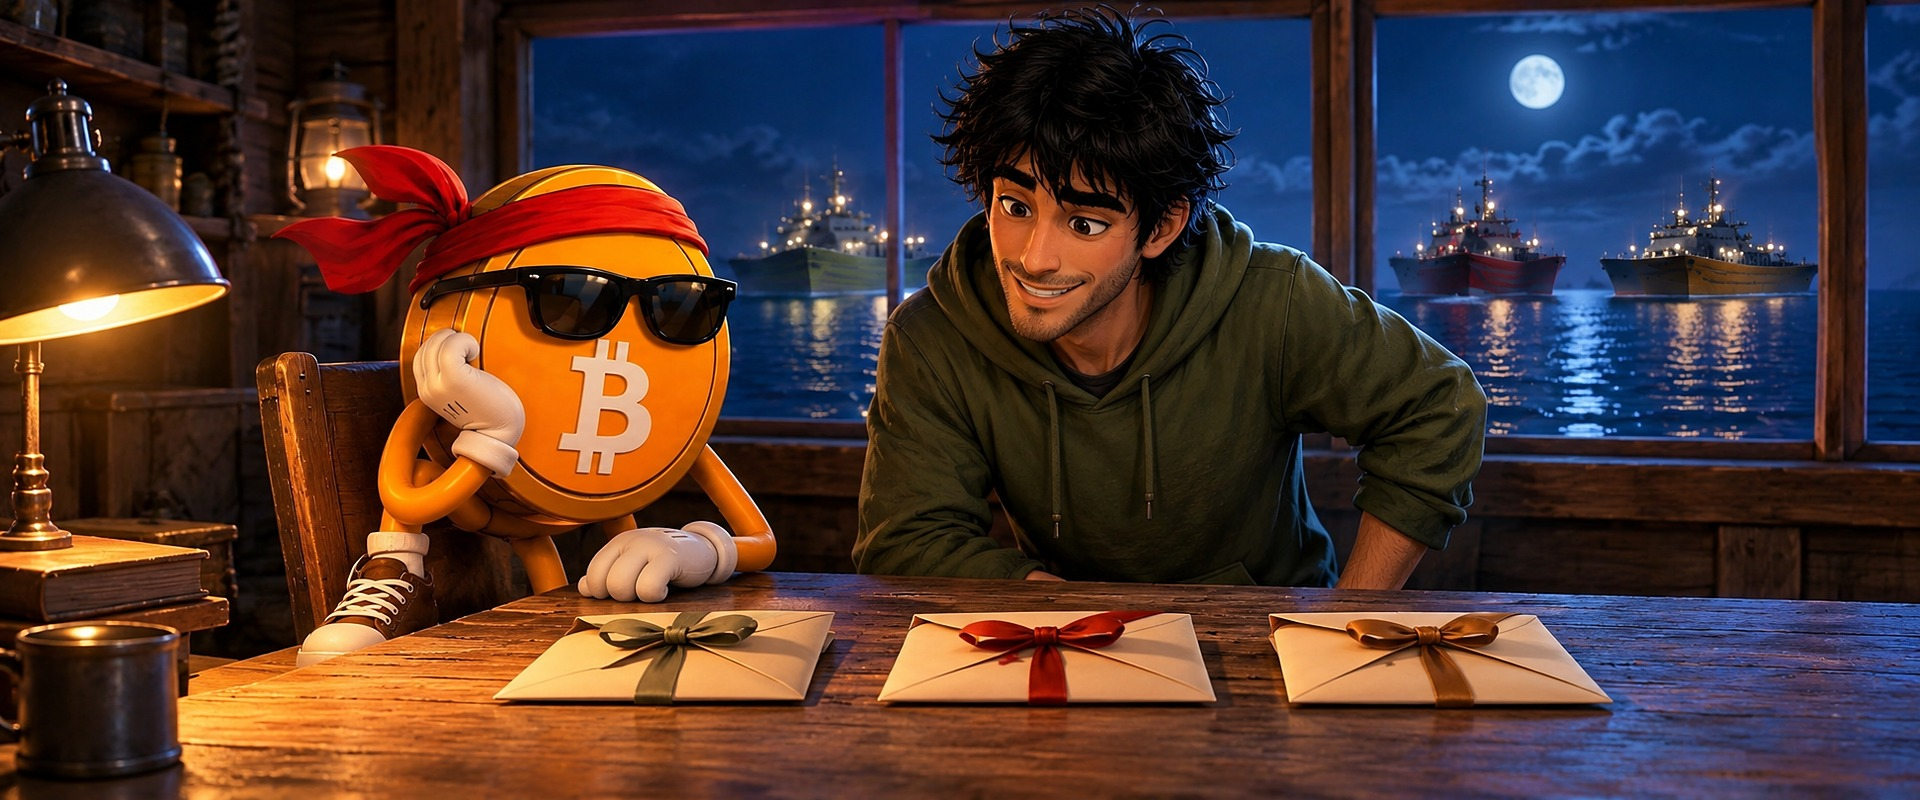
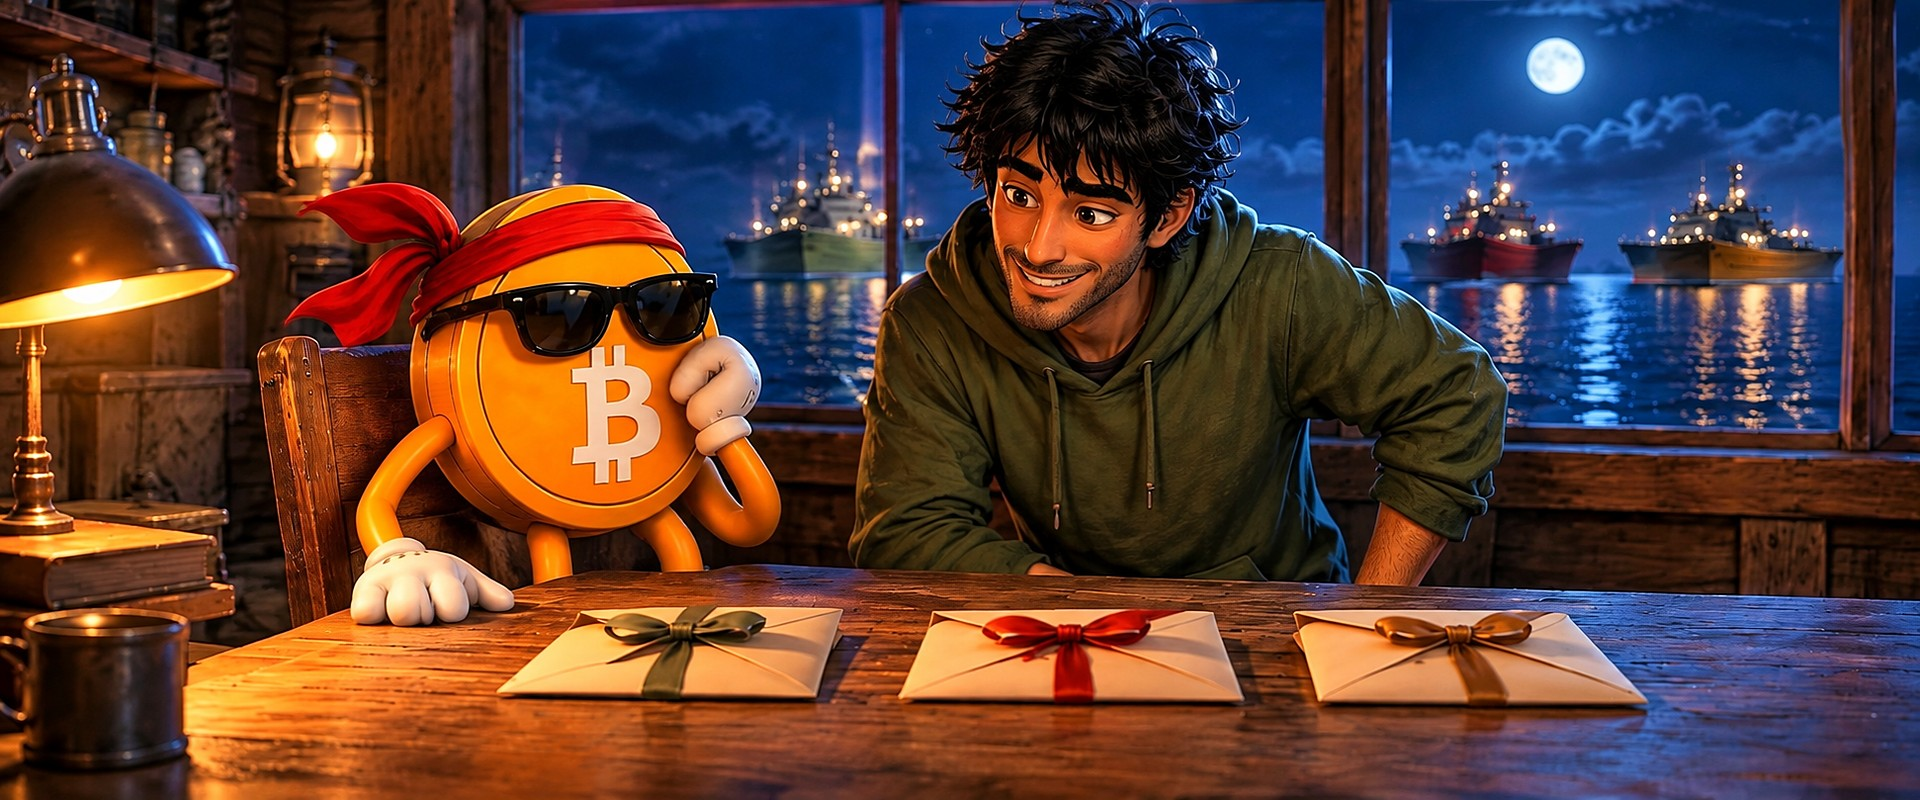
Art: ChatGPT redraws for usedcar-lemon, blocReplies, battle-pact-win (mp258)

diff --git a/game.js b/game.js
@@ -3344,7 +3344,7 @@
   };
 
   // Per-card cache bust for redrawn wide art, so one new image does not re-download every card.
-  const WIDE_JPG_VER = { unclemike: "cin15", islandInspection: "cin20", citadelProblem: "cin18", somethingBetter: "cin18", theQuestion: "cin18", fourthColor: "cin18", nicoWedding: "cin19", battleWon: "cin19", blocAssault: "cin19", blocReplies: "cin20", blocTriumph: "cin20", notYet: "cin20", nobodyKnows: "cin21", nothingToHide: "cin21", temporaryMeasures: "cin21", theAnswer: "cin21", timeTraveler: "cin22", stateVisit: "cin36", anOffer: "cin24", protectIsland: "cin25", baby: "cin26", extensionCord: "cin27", landfill: "cin27", poker: "cin27", usedcar: "cin36", wedding: "cin28", citadelQuestion: "cin29", honeymoon: "cin36", phish: "cin29", firstBloc: "cin30", principality: "cin30", threeColors: "cin30", rearmament: "cin31", justInCase: "cin31", ortegaCalls: "cin31", pieceWorld: "cin31", tetris: "cin36", cabinet: "cin31", courage: "cin31", declaration: "cin31", date: "cin32", flu: "cin32", peopleAsking: "cin32", placeNow: "cin32", pregnancy: "cin32", ring: "cin32", roof: "cin32", paperwork: "cin33", potluck: "cin33", tow: "cin33", wine: "cin33", speeding: "cin34", uncle: "cin34", wallet: "cin34", casino: "cin35", cousin: "cin35", crash: "cin36", jobCareeraviationTier6: "cin36" };
+  const WIDE_JPG_VER = { unclemike: "cin15", islandInspection: "cin20", citadelProblem: "cin18", somethingBetter: "cin18", theQuestion: "cin18", fourthColor: "cin18", nicoWedding: "cin19", battleWon: "cin19", blocAssault: "cin19", blocReplies: "cin37", blocTriumph: "cin20", notYet: "cin20", nobodyKnows: "cin21", nothingToHide: "cin21", temporaryMeasures: "cin21", theAnswer: "cin21", timeTraveler: "cin22", stateVisit: "cin36", anOffer: "cin24", protectIsland: "cin25", baby: "cin26", extensionCord: "cin27", landfill: "cin27", poker: "cin27", usedcar: "cin36", wedding: "cin28", citadelQuestion: "cin29", honeymoon: "cin36", phish: "cin29", firstBloc: "cin30", principality: "cin30", threeColors: "cin30", rearmament: "cin31", justInCase: "cin31", ortegaCalls: "cin31", pieceWorld: "cin31", tetris: "cin36", cabinet: "cin31", courage: "cin31", declaration: "cin31", date: "cin32", flu: "cin32", peopleAsking: "cin32", placeNow: "cin32", pregnancy: "cin32", ring: "cin32", roof: "cin32", paperwork: "cin33", potluck: "cin33", tow: "cin33", wine: "cin33", speeding: "cin34", uncle: "cin34", wallet: "cin34", casino: "cin35", cousin: "cin35", crash: "cin36", jobCareeraviationTier6: "cin36" };
   const SQ_JPG_VER = { unclemike: "sq2" };
   const PRELOADED_ART = new Map();
   const MOBILE_ART = (() => { try { return matchMedia("(pointer: coarse)").matches || Math.min(screen.width, screen.height) < 820; } catch (e) { return false; } })();
@@ -3500,7 +3500,7 @@
     "unclemike-a":"post8", "unclemike-b":"post10", "unclemike-c":"post10", "casino-win":"post9",
     "casino-lose":"post9", "casino-c":"post9", "poker-win":"post8", "poker-bust":"post7",
     "poker-c":"post7", "startup-win":"post7", "startup-lose":"post7", "cousin-win":"post9",
-    "cousin-lose":"post7", "usedcar-works":"post8", "usedcar-lemon":"post8", "stateVisit-a":"post8",
+    "cousin-lose":"post7", "usedcar-works":"post8", "usedcar-lemon":"post10", "stateVisit-a":"post8",
     "stateVisit-b":"post8", "extensionCord-a":"post7", "extensionCord-b":"post7", "landfill-nokia":"post7",
     "landfill-nothing":"post7", "landfill-c":"post8", "baby-a":"post7", "baby-c":"post7",
     "nicoWedding-a":"post7", "nicoWedding-c":"post7"
@@ -3571,7 +3571,7 @@
     const va = battleArtPick(card);
     if (va && base.indexOf("<img") === 0) {
       const m0 = base.match(/ src="([^"]*)"/);
-      if (m0) return base.replace(/ onerror="[^"]*"/, "").replace(m0[0], " src=\"chance/" + va + "-wide.jpg?v=bat15\" data-base=\"" + m0[1] + "\"")
+      if (m0) return base.replace(/ onerror="[^"]*"/, "").replace(m0[0], " src=\"chance/" + va + "-wide.jpg?v=bat16\" data-base=\"" + m0[1] + "\"")
         .replace("<img ", "<img onerror=\"window.__choppyBattleMiss&&window.__choppyBattleMiss('" + va + "');window.__choppyArtMiss&&window.__choppyArtMiss(this)\" ");
     }
     const aid = blocArtId(card);
@@ -11914,7 +11914,7 @@
     hvLoad = 1;
     try {
       const s = document.createElement("script");
-      s.src = "halving.js?v=mp257";
+      s.src = "halving.js?v=mp258";
       s.onload = function () {
         hvLoad = 0;
         try {
@@ -13074,12 +13074,12 @@
     return "<div class=\"awards\"><details class=\"aw-all\"><summary class=\"k\">" + (es ? "Premios" : "Awards") + " (" + n + "/" + shown.length + ")</summary>" + note + groups + "</details></div>";
   }
   function shareCardSrc() {
-    return "share-card.js?v=mp257";
+    return "share-card.js?v=mp258";
   }
   function copyResultSrc() {
-    return "copy-result.js?v=mp257";
+    return "copy-result.js?v=mp258";
   }
-  function dailyScriptSrc() { return "daily.js?v=mp257"; }
+  function dailyScriptSrc() { return "daily.js?v=mp258"; }
   function loadDaily(cb) {
     if (typeof choppyDailyReady === "function") { cb(); return; }
     if (!window.__choppyDailyLoad) window.__choppyDailyLoad = [];
@@ -13137,7 +13137,7 @@
   const GHOST_DT = 0.2;
   const GHOST_CAP = 12000;
   let ghostRun = null;
-  function ghostScriptSrc() { return "ghost.js?v=mp257"; }
+  function ghostScriptSrc() { return "ghost.js?v=mp258"; }
   function ghostLive() {
     return !!(S.ranked && S.daily && !S.mp && !S.testCheat && S.humanInput !== false && S.dailyDay === utcDayKey());
   }
@@ -14344,7 +14344,7 @@
     if (mpScript) return mpScript;
     mpScript = new Promise((resolve) => {
       const s = document.createElement("script");
-      s.src = "mp.js?v=mp257";
+      s.src = "mp.js?v=mp258";
       s.onload = () => {
         try { wireMp(); } catch (e) {}
         resolve(window.ChoppyMP || null);

diff --git a/index.html b/index.html
@@ -64,8 +64,8 @@
   </style>
   <script>(function(){function m(){var d={};return{getItem:function(k){return Object.prototype.hasOwnProperty.call(d,k)?d[k]:null},setItem:function(k,v){d[k]=String(v)},removeItem:function(k){delete d[k]},clear:function(){d={}},key:function(i){return Object.keys(d)[i]||null},get length(){return Object.keys(d).length}}}["localStorage","sessionStorage"].forEach(function(n){try{var s=window[n];s.setItem("choppy-ls-probe","1");s.removeItem("choppy-ls-probe")}catch(e){try{Object.defineProperty(window,n,{value:m(),configurable:true})}catch(e2){}}});if(/[?&]embed=1(&|$)/.test(location.search)){window.choppyEmbed=true;document.documentElement.className+=" embed"}})();</script>
   <script>try{var _s=JSON.parse(localStorage.getItem("bitcoinizate-sb")||"null");if(_s&&_s.access_token){window.choppyAuthPending=true;document.documentElement.className+=" auth-pending"}}catch(e){}</script>
-  <link rel="stylesheet" href="style.css?v=mp257">
-  <script src="nozoom.js?v=mp257"></script>
+  <link rel="stylesheet" href="style.css?v=mp258">
+  <script src="nozoom.js?v=mp258"></script>
 </head>
 <body>
   <div id="app">
@@ -223,12 +223,12 @@
   </div>
   <div id="a11y-live" class="a11y-live" role="status" aria-live="polite" aria-atomic="true"></div>
   <!-- abcjs loads when the jukebox opens (audio.js). mp.js loads when Versus opens. -->
-  <script src="/choppy-bitcoin/i18n.js?v=mp257" defer></script>
-  <script src="supabase-lib.js?v=mp257" defer></script>
-  <script src="auth.js?v=mp257" defer></script>
-  <script src="run-stats.js?v=mp257" defer></script>
-  <script src="audio.js?v=mp257" defer></script>
-  <script src="donate-config.js?v=mp257" defer></script>
-  <script src="game.js?v=mp257" defer></script>
+  <script src="/choppy-bitcoin/i18n.js?v=mp258" defer></script>
+  <script src="supabase-lib.js?v=mp258" defer></script>
+  <script src="auth.js?v=mp258" defer></script>
+  <script src="run-stats.js?v=mp258" defer></script>
+  <script src="audio.js?v=mp258" defer></script>
+  <script src="donate-config.js?v=mp258" defer></script>
+  <script src="game.js?v=mp258" defer></script>
 </body>
 </html>

diff --git a/tests/daily.js b/tests/daily.js
@@ -22,7 +22,7 @@ assert.ok(!/startGame\(true, null, "practice"\)/.test(game), "practice mode is g
 assert.ok(!/id=\\"go-daily\\"/.test(game), "separate daily button is gone");
 assert.ok(/id=\\"go-challenge\\"/.test(game), "title screen can show a challenge button");
 assert.ok(/kbClickFirst\("#go-challenge"\)/.test(game), "Enter can confirm a challenge");
-assert.ok(/daily\.js\?v=mp257/.test(game), "daily.js is lazy-loaded");
+assert.ok(/daily\.js\?v=mp258/.test(game), "daily.js is lazy-loaded");
 assert.ok(!/daily\.js/.test(index), "daily.js is not on the game startup path");
 assert.ok(/data-i18n="ranked"/.test(index), "index #go is labeled Ranked");
 assert.ok(/const DAILY_ONE_ATTEMPT = false/.test(game), "one-attempt rule lives in one constant");
@@ -32,7 +32,7 @@ assert.ok(/queueDailySubmit/.test(game.match(/function saveBest\(n\) \{[\s\S]*?\
 assert.ok(/data-daily-tab=\\"legacy\\"/.test(game), "all-time board is a read-only legacy tab");
 assert.ok(/boardLegacy/.test(game) && /dailyYesterday/.test(game));
 assert.ok(/aboutDaily/.test(about) && /aboutDaily/.test(extra), "about page explains the new ranked rule");
-assert.ok(/daily\.js\?v=mp257/.test(about), "about page loads the daily board client");
+assert.ok(/daily\.js\?v=mp258/.test(about), "about page loads the daily board client");
 
 const keys = [
   "ranked", "dailyNote", "dailyBoard", "dailyYesterday", "dailyReset", "boardLegacy",

diff --git a/about/index.html b/about/index.html
@@ -185,7 +185,7 @@
     }
     @media (min-width: 640px) { .chips { grid-template-columns: repeat(4, 1fr); } }
   </style>
-  <script src="/choppy-bitcoin/nozoom.js?v=mp257"></script>
+  <script src="/choppy-bitcoin/nozoom.js?v=mp258"></script>
 </head>
 <body>
   <main class="wrap">
@@ -310,12 +310,12 @@
       <button type="button" class="text-btn" id="btn-close-profile" data-i18n="close">Close</button>
     </div>
   </div>
-  <script src="/choppy-bitcoin/i18n.js?v=mp257"></script>
-  <script src="/choppy-bitcoin/i18n-extra.js?v=mp257"></script>
-  <script src="/choppy-bitcoin/supabase-lib.js?v=mp257"></script>
-  <script src="/choppy-bitcoin/auth.js?v=mp257"></script>
-  <script src="/choppy-bitcoin/donate-config.js?v=mp257"></script>
-  <script src="/choppy-bitcoin/daily.js?v=mp257"></script>
+  <script src="/choppy-bitcoin/i18n.js?v=mp258"></script>
+  <script src="/choppy-bitcoin/i18n-extra.js?v=mp258"></script>
+  <script src="/choppy-bitcoin/supabase-lib.js?v=mp258"></script>
+  <script src="/choppy-bitcoin/auth.js?v=mp258"></script>
+  <script src="/choppy-bitcoin/donate-config.js?v=mp258"></script>
+  <script src="/choppy-bitcoin/daily.js?v=mp258"></script>
   <script>if (window.choppyFillDonateLinks) choppyFillDonateLinks(document.getElementById("donate-links"));</script>
   <script>
     (function () {

diff --git a/profile/index.html b/profile/index.html
@@ -53,8 +53,8 @@
   </form>
   <p><a id="public-link" href="/" data-i18n="profilePublic">Public profile</a></p>
   <script src="/choppy-bitcoin/i18n.js"></script>
-  <script src="/choppy-bitcoin/i18n-extra.js?v=mp257"></script>
-  <script src="/choppy-bitcoin/supabase-lib.js?v=mp257"></script>
+  <script src="/choppy-bitcoin/i18n-extra.js?v=mp258"></script>
+  <script src="/choppy-bitcoin/supabase-lib.js?v=mp258"></script>
   <script src="/choppy-bitcoin/run-stats.js"></script>
   <script>
     (function () {
@@ -209,7 +209,7 @@
       try { on = new URLSearchParams(location.search).get("nftpreview") === "1"; } catch (e) { on = false; }
       if (!on) return;
       var s = document.createElement("script");
-      s.src = "/choppy-bitcoin/nft-preview.js?v=mp257";
+      s.src = "/choppy-bitcoin/nft-preview.js?v=mp258";
       s.defer = true;
       document.body.appendChild(s);
     })();

diff --git a/tests/copy-result.js b/tests/copy-result.js
@@ -12,7 +12,7 @@ const game = fs.readFileSync(path.join(ROOT, "game.js"), "utf8");
 const i18n = fs.readFileSync(path.join(ROOT, "i18n.js"), "utf8");
 const sw = fs.readFileSync(path.join(ROOT, "sw.js"), "utf8");
 
-assert.ok(game.indexOf("copy-result.js?v=mp257") !== -1, "game lazy-loads copy-result.js");
+assert.ok(game.indexOf("copy-result.js?v=mp258") !== -1, "game lazy-loads copy-result.js");
 assert.ok(/id=\\"copy-result\\"/.test(game), "end screen has copy-result button");
 assert.ok(game.indexOf('t("copyResult")') !== -1, "button uses bilingual copyResult key");
 assert.ok(/copyResult:\s*"Copy result"/.test(i18n) && /copyResult:\s*"Copiar resultado"/.test(i18n), "EN/ES button labels");

diff --git a/tests/share-card.js b/tests/share-card.js
@@ -11,7 +11,7 @@ const src = fs.readFileSync(path.join(ROOT, "share-card.js"), "utf8");
 const game = fs.readFileSync(path.join(ROOT, "game.js"), "utf8");
 const i18n = fs.readFileSync(path.join(ROOT, "i18n.js"), "utf8");
 
-assert.ok(game.indexOf("share-card.js?v=mp257") !== -1, "game lazy-loads share-card.js");
+assert.ok(game.indexOf("share-card.js?v=mp258") !== -1, "game lazy-loads share-card.js");
 assert.ok(/function loadShareCard\(cb\)/.test(game));
 assert.ok(/function fallbackShare\(blob, text, url\)/.test(game));
 assert.ok(game.indexOf("share-icon.png") < 0, "generic share icon is no longer the card");

diff --git a/u/index.html b/u/index.html
@@ -83,8 +83,8 @@
     <a class="play" href="/choppy-bitcoin/" data-i18n="play">Play Choppy Bitcoin</a>
   </div>
   <script src="/choppy-bitcoin/i18n.js"></script>
-  <script src="/choppy-bitcoin/i18n-extra.js?v=mp257"></script>
-  <script src="/choppy-bitcoin/supabase-lib.js?v=mp257"></script>
+  <script src="/choppy-bitcoin/i18n-extra.js?v=mp258"></script>
+  <script src="/choppy-bitcoin/supabase-lib.js?v=mp258"></script>
   <script src="/choppy-bitcoin/run-stats.js"></script>
   <script>
     (function () {

diff --git a/sw.js b/sw.js
@@ -10,7 +10,7 @@ that survives a shell bump. Supabase, tokens, versus, and video are never stored
 (function () {
   "use strict";
 
-  var CACHE_VERSION = "mp257";
+  var CACHE_VERSION = "mp258";
   var SCOPE_PATH = "/choppy-bitcoin/";
   var ART_MAX_COUNT = 40;
   var ART_MAX_BYTES = 30 * 1024 * 1024;

diff --git a/chart.html b/chart.html
@@ -44,7 +44,7 @@
   </header>
   <canvas id="big-chart"></canvas>
   <script src="i18n.js"></script>
-  <script src="i18n-extra.js?v=mp257"></script>
+  <script src="i18n-extra.js?v=mp258"></script>
   <script src="run-stats.js"></script>
   <script>
     (function () {

diff --git a/i18n.js b/i18n.js
@@ -687,7 +687,7 @@
     const s = document.createElement("script");
     s.id = "bz-i18n-extra";
     s.async = true;
-    s.src = "/choppy-bitcoin/i18n-extra.js?v=mp257";
+    s.src = "/choppy-bitcoin/i18n-extra.js?v=mp258";
     document.head.appendChild(s);
   }
 
